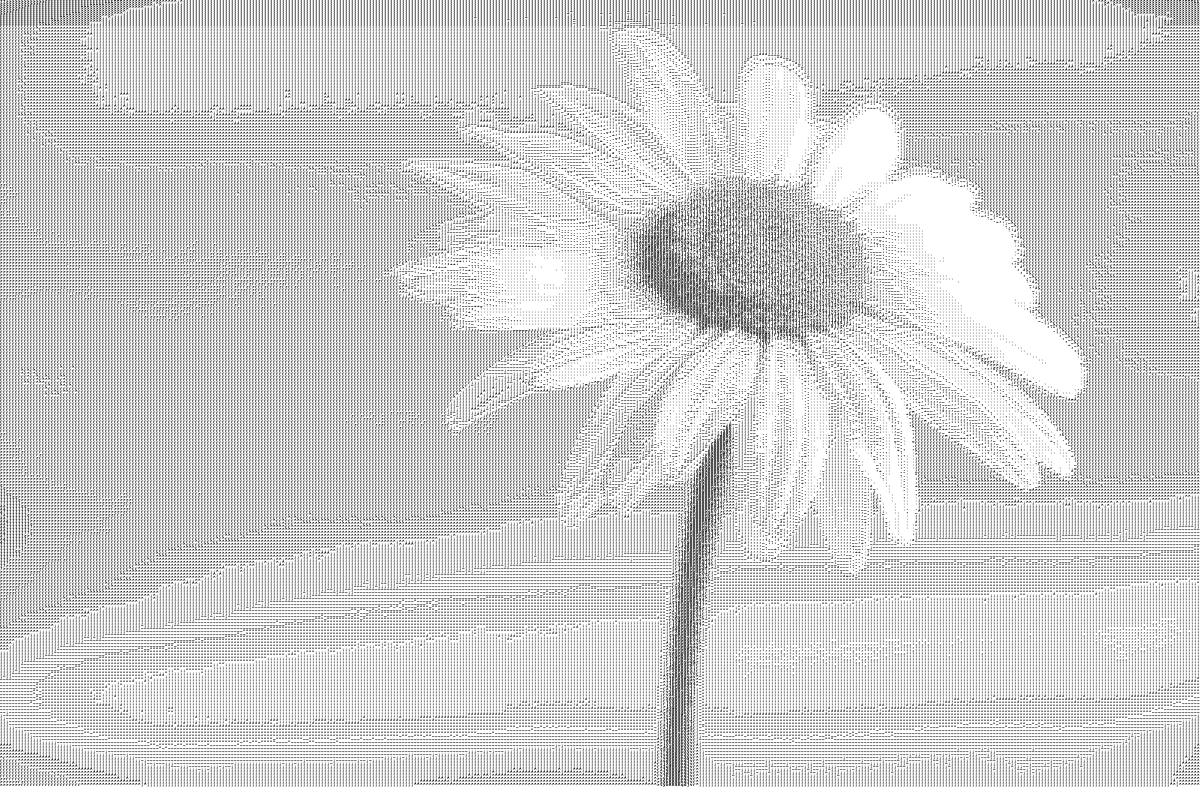
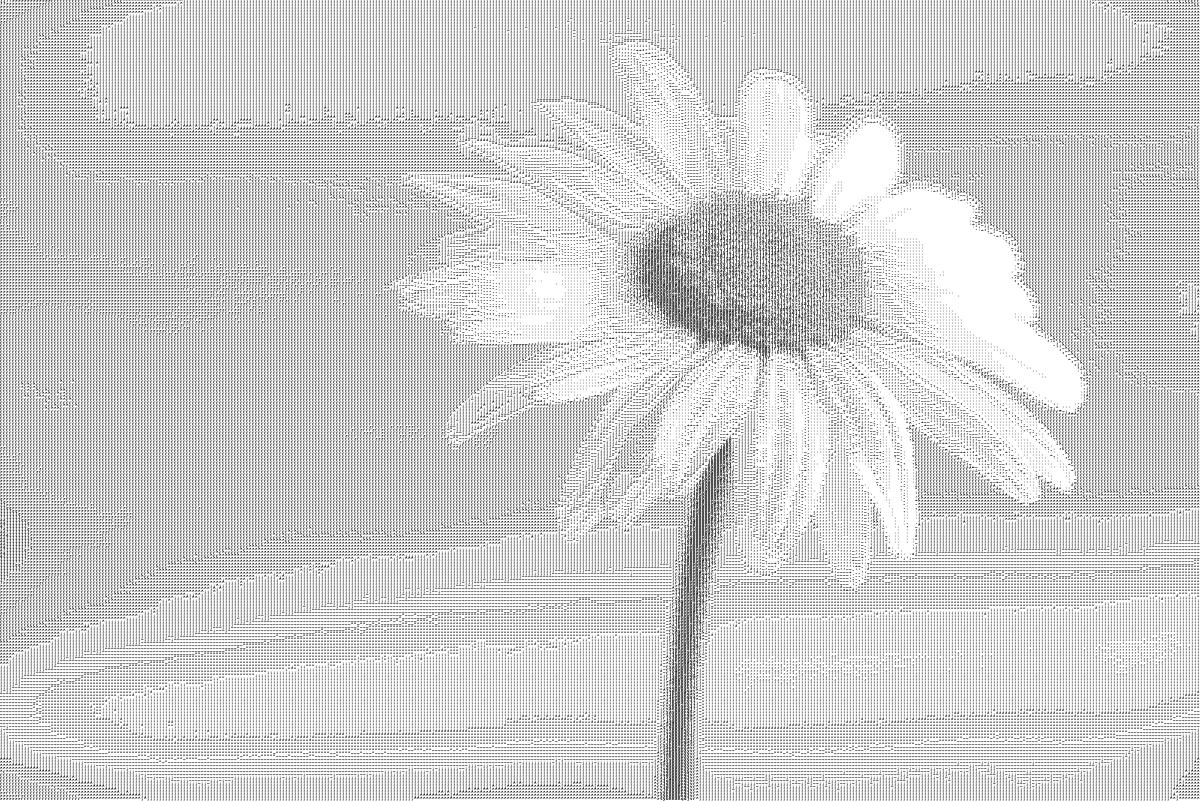
performance issues fix

diff --git a/Python/Ascii_Artist/ascii_artist.py b/Python/Ascii_Artist/ascii_artist.py
@@ -1,55 +1,78 @@
-from PIL import Image, ImageDraw, ImageFont
+from PIL import Image, ImageDraw, ImageFont, ImageOps
 from numpy import interp
+import numpy as np
 
 class FontSetup:
 
-    def __init__(self, font="/usr/share/fonts/truetype/ubuntu/UbuntuMono-B.ttf", symbols=" !\"#$%&'()*+,-./0123456789:;<=>?@ABCDEFGHIJKLMNOPQRSTUVWXYZ[\]^_`abcdefghijklmnopqrstuvwxyz{|}~"):
-        self.__used_symbols = symbols
-        self.__font_path = font
-        self.__font = ImageFont.truetype(font, 30)
-        self.__process_font()
-        self.__map_values_to_rgb_range()
+    def __init__(self, 
+                font="/usr/share/fonts/truetype/ubuntu/UbuntuMono-B.ttf", 
+                symbols=" !\"#$%&'()*+,-./0123456789:;<=>?@ABCDEFGHIJKLMNOPQRSTUVWXYZ[\]^_`abcdefghijklmnopqrstuvwxyz{|}~"):
+        self._symbols = {}
+        self._used_symbols = symbols
+        self._font_path = font
+        self._font = ImageFont.truetype(font, 30)
+        self._process_font()
+        self._map_values_to_rgb_range()
 
 
-    def __process_font(self):
+    def _process_font(self):
         
-        for i in self.__used_symbols:
+        for i in self._used_symbols:
             img = Image.new("RGB", (15,30), color=(255, 255, 255))
             d = ImageDraw.Draw(img)
-            d.text((0,-1), i,font=self.__font, fill=(0,0,0))
+            d.text((0,-1), i,font=self._font, fill=(0,0,0))
             black = 0
             for k in range(0,15):
                 for m in range(0,30):
                     r, g, b = img.getpixel((k,m))
                     if(r!=255 or g!=255 or b!=255):
                         black+=1
-            self.__symbols[ord(i)] = round(black / (15*30) * 100)
+            self._symbols[ord(i)] = round(black / (15*30) * 100)
                
-    def __map_values_to_rgb_range(self):
-        max_value = max(self.__symbols.values())
-        min_value = min(self.__symbols.values())
-        for (key,value) in self.__symbols.items():
-            self.__symbols[key] = round(interp(value,[min_value,max_value],[0,255]))
+    def _map_values_to_rgb_range(self):
+        max_value = max(self._symbols.values())
+        min_value = min(self._symbols.values())
+        for (key,value) in self._symbols.items():
+            self._symbols[key] = round(interp(value,[min_value,max_value],[0,255]))
     
     def get_font_info(self):
-        return dict((v,k) for k,v in self.__symbols.items()), self.__font_path
+        return dict((v,k) for k,v in self._symbols.items()), self._font_path
 
-    __font = ""
-    __symbols = {}
-    __font_path = ""
-    __used_symbols = ""
 
 
 class Artist:
     
     def __init__(self, font_information):
-        self.__font_info, self.__font_path = font_information.get_font_info()
+        self._font_info, self._font_path = font_information.get_font_info()
+        self._font_info = dict(sorted(self._font_info.items()))
+        self._pixel_map = self._make_pixel_map()
+        print(self._pixel_map)
 
+    def _make_pixel_map(self):
+        p_map = {}
+        for i in range(256):
+            p_map[i] = self._font_info[self._find_position(list(self._font_info.keys()), i)]
+        return p_map
+
+
+    def _find_position(self, key_list, item):
+        # make into binary search, dumbass!
+        to_return = key_list[0]
+
+        for i in key_list:
+            if i <= item:
+                to_return = i
+            else:
+                break
+        return to_return
+
+    
     def __get_closest_symbol_for_pixel(self, pix_val):
-        return chr(self.__font_info.get(pix_val, self.__font_info[min(self.__font_info.keys(), key=lambda k: abs(k-pix_val))]))
+        return chr(self._pixel_map[pix_val])
+
 
     def create_art(self,path_to_img, output_filename,desired_width=400, font_size=5):
-        self.__font_size = font_size
+        self._font_size = font_size
         self.__desired_width = desired_width
         self.__path_to_image = path_to_img
         self.__image_setup()
@@ -58,33 +81,43 @@ class Artist:
         self.__print_ascii_strings_to_image()
         self.__output_image.save(output_filename)
 
+    
     def __print_ascii_strings_to_image(self):
-        marginx = 0
-        marginy = -self.__y_coordinate_compress
+        x_margin = 0
+        y_margin = -self.__y_coordinate_compress
         for line in self.__ascii_strings_list:
-            width, height = self.__font.getsize(line)
-            self.__draw.text((marginx, marginy), line, font=self.__font, fill=(0,0,0))
-            marginy += height-self.__y_coordinate_compress
+            width, height = self._font.getsize(line)
+            # TODO try multiline
+            
+            self.__draw.text((x_margin, y_margin), line, font=self._font, fill=(0,0,0))
+            y_margin += height-self.__y_coordinate_compress
 
     def __convert_pixels_to_ascii(self):
         for x in range(self.__img_height):
             curr_line = ""
             for y in range(self.__img_width):
-                curr_line += self.__get_closest_symbol_for_pixel(255-self.__get_mean_of_pixel(self.__pixels[y,x]))
+                curr_line += self.__get_closest_symbol_for_pixel(255-self.__pixels[y,x]) #255-self.__get_mean_of_pixel(self.__pixels[y,x]))
             self.__ascii_strings_list.append(curr_line)
 
     def __get_mean_of_pixel(self, pixel):
         return (pixel[0] + pixel[1] + pixel[2]) // 3
 
     def __output_image_setup(self):
-        self.__font = ImageFont.truetype(self.__font_path, self.__font_size)
-        width, height = self.__font.getsize(self.__ascii_strings_list[100])
-        self.__output_image = Image.new("RGB", (width,height*self.__img_height-(self.__img_height*self.__y_coordinate_compress)), color = (255, 255, 255))
+        self._font = ImageFont.truetype(self._font_path, self._font_size)
+        width, height = self._font.getsize(self.__ascii_strings_list[100])
+        self.__output_image = Image.new(
+            "RGB", 
+            (
+            width,height*self.__img_height-(self.__img_height*self.__y_coordinate_compress)
+            ),
+            color = (255, 255, 255)
+        )
         
         self.__draw = ImageDraw.Draw(self.__output_image)
 
     def __image_setup(self):
         image = Image.open(self.__path_to_image)
+        image = ImageOps.grayscale(image)
         old_width = image.size[0]
         old_height = image.size[1]
         ratio = self.__desired_width/old_width
@@ -94,19 +127,19 @@ class Artist:
 
         self.__pixels = image.load()
 
-    __font_info = {}
+    _font_info = {}
     __path_to_image = ""
     __pixels = 0
     __img_width = 0
     __img_height = 0
     __ascii_strings_list = []
-    __font_path = ""
-    __font = ""
+    _font_path = ""
+    _font = ""
     __output_image = 0
     __draw = 0
     __y_coordinate_compress = 3
     __desired_width = 0
-    __font_size = 0
+    _font_size = 0
 
 
 

diff --git a/Python/Ascii_Artist/demonstration.py b/Python/Ascii_Artist/demonstration.py
@@ -1,7 +1,21 @@
 from ascii_artist import *
+import cProfile, pstats
 
 if __name__ == "__main__":
+    
+    # By default loads Ubuntu font. 
+    # If you want to use any other one, you should specify path to .ttf file
 
-    font = FontSetup() #by default loads Ubuntu font. If you want to use any other one, you should specify path to .ttf file
+    font = FontSetup() 
+    print(font.get_font_info())
     artist = Artist(font)
-    artist.create_art("train.jpg", "ascii_train.jpg")
+    # why diffecence
+    # picture streches in y-axis when font_size changes
+
+    profiler = cProfile.Profile()
+    profiler.enable()
+    artist.create_art("/home/windy-stairs/Resume/Python/Ascii_Artist/marguerite.jpg",
+                        "ascii_marguerite_1.jpg", font_size=50)
+    profiler.disable()
+    stats = pstats.Stats(profiler).sort_stats('cumtime')
+    stats.print_stats()

diff --git a/Python/Ascii_Artist/tests/loads_or_getdata.py b/Python/Ascii_Artist/tests/loads_or_getdata.py
@@ -1,0 +1,17 @@
+from PIL import Image
+import numpy as np
+import time
+
+start = time.perf_counter()
+image = Image.open("/home/windy-stairs/Resume/Python/Ascii_Artist/train.jpg")
+pixels = np.asarray(image)
+total = 0
+for i in range(100):
+    for j in range(100):
+        total += 1
+        print(pixels[i,j])
+        # print(image.getpixel((i, j)))
+        # print(pixels[i*image.width + j])
+end = time.perf_counter()
+print(end - start)
+print(total)

diff --git a/Python/Ascii_Artist/tests/opencv_load.py b/Python/Ascii_Artist/tests/opencv_load.py
@@ -1,0 +1,15 @@
+import cv2
+import time
+
+start = time.perf_counter()
+image = cv2.imread("/home/windy-stairs/Resume/Python/Ascii_Artist/train.jpg", cv2.IMREAD_UNCHANGED)
+
+total = 0
+for i in range(100):
+    for j in range(100):
+        total += 1
+        print(image[i,j])
+        # print(pixels[i*image.width + j])
+end = time.perf_counter()
+print(end - start)
+print(total)

diff --git a/Python/Ascii_Artist/font_setup.py b/Python/Ascii_Artist/font_setup.py
@@ -1,0 +1,8 @@
+from PIL import Image, ImageDraw, ImageFont
+
+img = Image.new("RGB", (15,30), color=(255, 255, 255))
+d = ImageDraw.Draw(img)
+fnt = ImageFont.truetype("/usr/share/fonts/truetype/ubuntu/UbuntuMono-B.ttf", 30)
+print(fnt.getsize('-'))
+d.text((0,0), 'q',font=fnt, fill=(0,0,0))
+img.save("font_font.png")
